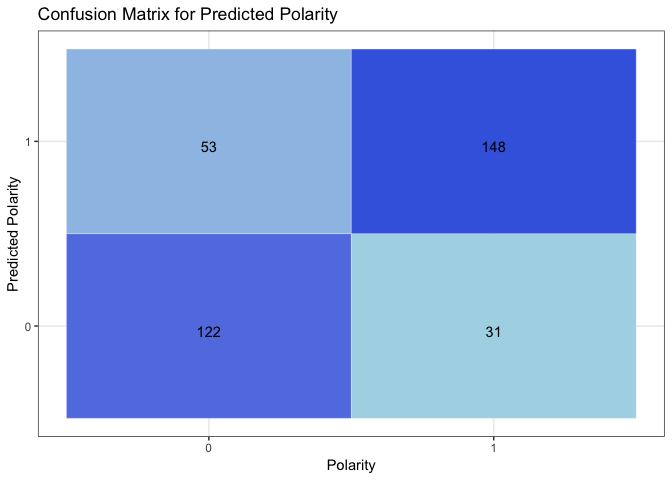
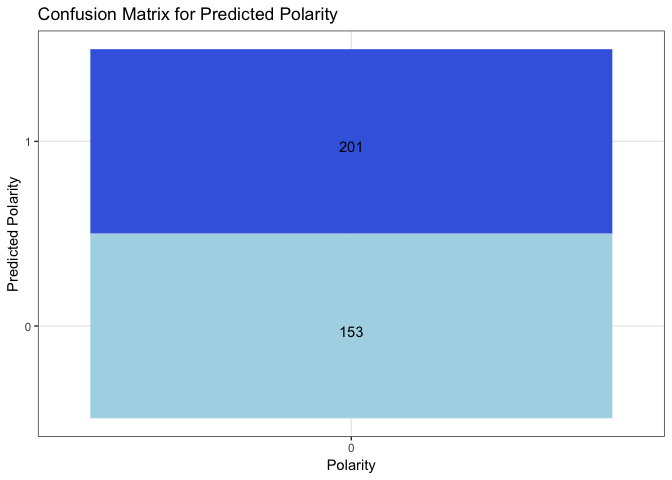
New Vignette

diff --git a/README.md b/README.md
@@ -5,9 +5,9 @@
 
 <!-- badges: start -->
 
-[![Project Status: WIP – Initial development is in progress, but there
-has not yet been a stable, usable release suitable for the
-public.](https://www.repostatus.org/badges/latest/wip.svg)](https://www.repostatus.org/#wip)
+[![Project Status: Active – The project has reached a stable, usable
+state and is being actively
+developed.](https://www.repostatus.org/badges/latest/active.svg)](https://www.repostatus.org/#active)
 [![License:
 GPL-3](https://img.shields.io/badge/License-GPLv3-yellow.svg)](https://opensource.org/licenses/GPL-3.0)
 [![Travis build
@@ -157,52 +157,50 @@ predict_polarity_keras(model_load_path = system.file("extdata",
 #> # A tibble: 354 x 15
 #>    polarity    id date                query user  text  nouns adjectives
 #>       <dbl> <int> <dttm>              <chr> <chr> <chr> <int>      <int>
-#>  1        1   217 2009-05-25 17:29:39 mcdo… Mami… mgg …     7          2
-#>  2        1  2140 2009-05-20 02:38:17 nike  Chet… ew n…     4          2
+#>  1        0   217 2009-05-25 17:29:39 mcdo… Mami… mgg …     7          2
+#>  2        0  2140 2009-05-20 02:38:17 nike  Chet… ew n…     4          2
 #>  3        0   224 2009-05-25 17:34:51 chen… QCWo… ife?…     9          3
-#>  4        1   569 2009-06-07 21:38:16 kind… rach… @lon…     8          2
-#>  5        1  2546 2009-06-08 00:13:48 kind… k8tb… " lo…     7          1
-#>  6        1  1019 2009-05-11 05:21:25 lebr… unde… atch…     3          1
+#>  4        0   569 2009-06-07 21:38:16 kind… rach… @lon…     8          2
+#>  5        0  2546 2009-06-08 00:13:48 kind… k8tb… " lo…     7          1
+#>  6        0  1019 2009-05-11 05:21:25 lebr… unde… atch…     3          1
 #>  7        0  2110 2009-05-18 01:14:35 Malc… blin… @por…     7          3
-#>  8        1   256 2009-05-27 23:59:18 goog… maex… " am…     3          1
+#>  8        0   256 2009-05-27 23:59:18 goog… maex… " am…     3          1
 #>  9        0   413 2009-06-02 03:17:04 time… Jaso… " ha…    11          4
-#> 10        1  1003 2009-05-11 03:18:59 kind… Happ… y Ki…     1          0
+#> 10        0  1003 2009-05-11 03:18:59 kind… Happ… y Ki…     1          0
 #> # … with 344 more rows, and 7 more variables: prepositions <int>,
 #> #   articles <int>, pronouns <int>, verbs <int>, adverbs <int>,
 #> #   interjections <int>, pred_polarity[,1] <int>
 #> 
 #> $confusion_matrix
-#> # A tibble: 4 x 3
+#> # A tibble: 2 x 3
 #>   polarity pred_polarity count
 #>   <fct>    <fct>         <int>
-#> 1 0        0               122
-#> 2 0        1                53
-#> 3 1        0                31
-#> 4 1        1               148
+#> 1 0        0               153
+#> 2 0        1               201
 #> 
 #> $true_negative
-#> [1] 122
+#> [1] 153
 #> 
 #> $true_positive
-#> [1] 148
+#> integer(0)
 #> 
 #> $false_positive
-#> [1] 53
+#> [1] 201
 #> 
 #> $false_negative
-#> [1] 31
+#> integer(0)
 #> 
 #> $precision
-#> [1] 0.7363184
+#> numeric(0)
 #> 
 #> $recall
-#> [1] 0.8268156
+#> numeric(0)
 #> 
 #> $f1
-#> [1] 0.7789474
+#> numeric(0)
 #> 
 #> $accuracy
-#> [1] 0.7627119
+#> numeric(0)
 #> 
 #> $plot
 ```
